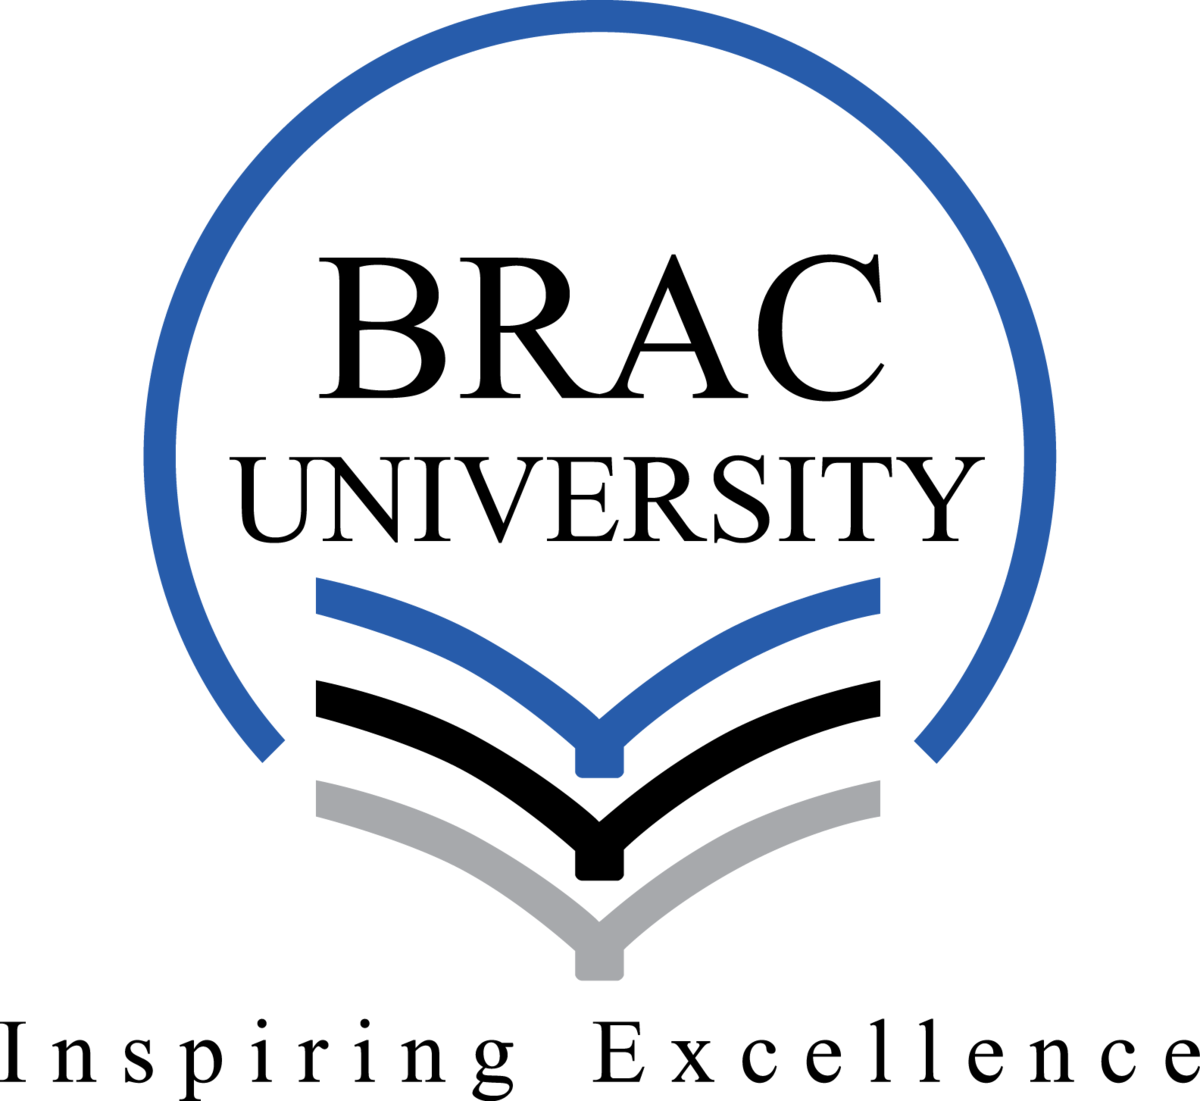
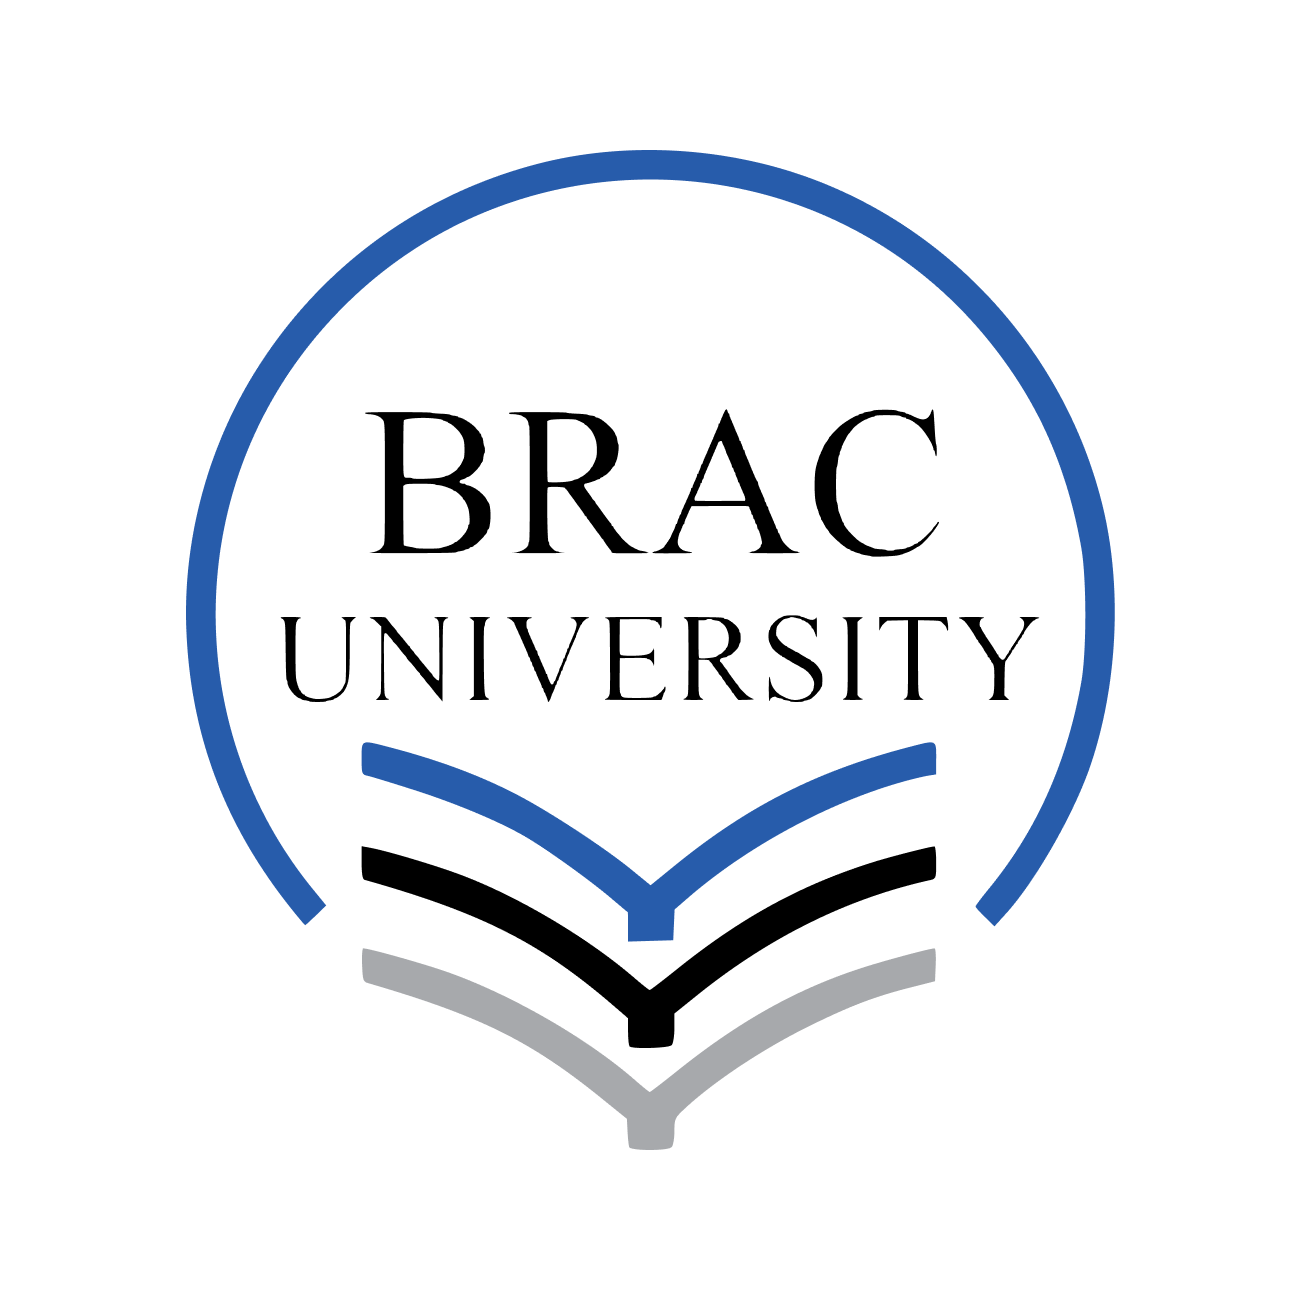
Complete basic experience section

diff --git a/src/assets/icons/Logo.svelte b/src/assets/icons/Logo.svelte
@@ -5,6 +5,10 @@
 	export let containerClasses: string = 'stroke-white !fill-none';
 	export let outlineShapeClasses: string = 'fill-none stroke-white';
 	export let solidShapeClasses: string = 'stroke-white fill-white';
+	export let outlineShapeLeftClasses: string = '';
+	export let outlineShapeRightClasses: string = '';
+	export let solidShapeLeftClasses: string = '';
+	export let solidShapeRightClasses: string = '';
 </script>
 
 <svg
@@ -14,86 +18,6 @@
 	viewBox="0 0 520 520"
 	class="transition-all duration-300 ease-linear {svgBoxClasses}"
 >
-	<!-- <rect
-		x="38.1666"
-		y="12.7008"
-		width="38.7661"
-		height="2"
-		rx="1"
-		transform="rotate(60 38.1666 12.7008)"
-		class="transition-all duration-300 ease-linear {outlineShapeClasses}"
-	/>
-	<rect
-		x="39.1646"
-		y="13.6994"
-		width="38.8577"
-		height="2"
-		rx="1"
-		transform="rotate(120 39.1646 13.6994)"
-		class="transition-all duration-300 ease-linear {outlineShapeClasses}"
-	/>
-	<rect
-		x="37.5126"
-		y="47.113"
-		width="26.7185"
-		height="2"
-		rx="1"
-		transform="rotate(-120 37.5126 47.113)"
-		class="transition-all duration-300 ease-linear {outlineShapeClasses}"
-	/>
-	<rect
-		x="62.9112"
-		y="1.68448"
-		width="51.4972"
-		height="2"
-		rx="1"
-		transform="rotate(60 62.9112 1.68448)"
-		class="transition-all duration-300 ease-linear stroke-2 {solidShapeClasses}"
-	/>
-	<rect
-		x="51.1446"
-		y="24.7923"
-		width="25.7895"
-		height="2"
-		rx="1"
-		transform="rotate(120 51.1446 24.7923)"
-		class="transition-all duration-300 ease-linear {outlineShapeClasses}"
-	/>
-	<rect
-		x="63.9093"
-		y="2.68301"
-		width="26.0111"
-		height="2"
-		rx="1"
-		transform="rotate(120 63.9093 2.68301)"
-		class="transition-all duration-300 ease-linear stroke-2 {solidShapeClasses}"
-	/>
-	<rect
-		x="38.1666"
-		y="1.70083"
-		width="51.4972"
-		height="2"
-		rx="1"
-		transform="rotate(60 38.1666 1.70083)"
-		class="transition-all duration-300 ease-linear stroke-2 {solidShapeClasses}"
-	/>
-	<rect
-		x="39.1646"
-		y="2.69937"
-		width="51.4987"
-		height="2"
-		rx="1"
-		transform="rotate(120 39.1646 2.69937)"
-		class="transition-all duration-300 ease-linear stroke-2 {solidShapeClasses}"
-	/> -->
-
-	<rect
-		width="115.822"
-		height="499.991"
-		rx="57.9112"
-		transform="matrix(0.88334 0.468733 -0.453146 0.891436 407.689 10)"
-		class="transition-all duration-300 ease-linear stroke-2 {solidShapeClasses}"
-	/>
 	<rect
 		x="388.003"
 		y="42.5239"
@@ -101,7 +25,7 @@
 		height="446.154"
 		rx="45.1432"
 		stroke-width="25"
-		class="transition-all duration-300 ease-linear {outlineShapeClasses}"
+		class="transition-all duration-300 ease-linear {outlineShapeClasses} {outlineShapeRightClasses}"
 	/>
 	<rect
 		x="16.7064"
@@ -111,7 +35,7 @@
 		rx="45.4113"
 		transform="matrix(0.883305 -0.468799 0.45321 0.891403 9.55545 74.8822)"
 		stroke-width="25"
-		class="transition-all duration-300 ease-linear {outlineShapeClasses}"
+		class="transition-all duration-300 ease-linear {outlineShapeClasses} {outlineShapeLeftClasses}"
 	/>
 	<rect
 		x="29.6436"
@@ -119,7 +43,15 @@
 		width="115.286"
 		height="471.154"
 		rx="57.6432"
-		class="transition-all duration-300 ease-linear stroke-2 {solidShapeClasses}"
+		class="transition-all duration-300 ease-linear stroke-2 {solidShapeClasses} {solidShapeLeftClasses}"
+	/>
+
+	<rect
+		width="115.822"
+		height="499.991"
+		rx="57.9112"
+		transform="matrix(0.88334 0.468733 -0.453146 0.891436 407.689 10)"
+		class="transition-all duration-300 ease-linear stroke-2 {solidShapeClasses} {solidShapeRightClasses}"
 	/>
 
 	{#if containerShape !== 'none'}

diff --git a/src/components/Sections/Experiences/Experiences.svelte b/src/components/Sections/Experiences/Experiences.svelte
@@ -1,24 +1,93 @@
 <script lang="ts">
-	import type { SocialItemType } from '../../../types';
 	import viewport from '../../../actions/useViewportAction';
-	import Logo from '../../../assets/icons/Logo.svelte';
-	import SocialsBlock from '../../SocialsBlock/SocialsBlock.svelte';
 	import Section from '../Section.svelte';
 	import { currentContentStore } from '../../../store';
+	import gymrev from '../../../assets/img/gym-revenue.png';
+	import bracu from '../../../assets/img/bracu.png';
+	import eveneer from '../../../assets/img/eveneer.png';
+	import techynaf from '../../../assets/img/techynaf-technologies-ltd.png';
+	import type { ExperienceType } from '../../../types';
+	import Experience from './Experience.svelte';
 
 	const contentKey: string = 'experience';
 	let setCurrentContentKey: () => void = () => {
 		currentContentStore.set(contentKey);
 	};
+
+	let expereinces: ExperienceType[] = [
+		{
+			company: 'Gym Revenue',
+			position: 'Full stack dev',
+			start: {
+				month: 'Nov',
+				year: '2022'
+			},
+			company_info: '',
+			logo: gymrev,
+			work_description: '',
+			works: []
+		},
+		{
+			company: 'Brac University',
+			position: 'Lecturer & Software Dev',
+			start: {
+				month: 'Jan',
+				year: '2020'
+			},
+			end: {
+				month: 'May',
+				year: '2023'
+			},
+			company_info: '',
+			logo: bracu,
+			work_description: '',
+			works: []
+		},
+		{
+			company: 'Eveneer',
+			position: 'Tech Wizard',
+			start: {
+				month: 'Dec',
+				year: '2018'
+			},
+			company_info: '',
+			logo: eveneer,
+			work_description: '',
+			works: []
+		},
+		{
+			company: 'Techynaf',
+			position: 'Backend Developer',
+			start: {
+				month: 'Dec',
+				year: '2016'
+			},
+			end: {
+				month: 'Jul',
+				year: '2019'
+			},
+			company_info: '',
+			logo: techynaf,
+			work_description: '',
+			works: []
+		}
+	];
 </script>
 
 <Section {contentKey}>
-	<div class="flex flex-col md:flex-row gap-5 md:gap-5" use:viewport on:enterViewport={setCurrentContentKey}>
-		<div>
-            something
-        </div>
-        <div class="flex flex-col gap-5">
-
-        </div>
+	<div
+		class="flex flex-col md:flex-row gap-10 md:gap-16 justify-between"
+		use:viewport
+		on:enterViewport={setCurrentContentKey}
+	>
+		<div class="w-full md:w-[40%] my-auto text-[0.8rem] text-justify">
+			I started my dev career in at the end of 2016 during as a college student and instantly fell
+			in love with development. Since then, I have developed several software (solo and in a team).
+		</div>
+		<div class="flex flex-col gap-12 w-full md:w-[60%] p-5 pl-0">
+			{#each expereinces as expereince}
+				<Experience {expereince} />
+			{/each}
+		</div>
 	</div>
 </Section>

diff --git a/src/routes/+page.svelte b/src/routes/+page.svelte
@@ -1,7 +1,6 @@
 <script lang="ts">
 	import About from '../components/Sections/About/About.svelte';
 	import Hero from '../components/Sections/Hero.svelte';
-	import type { NavItemType, PersonNameType, SocialItemType } from '../types';
 	import { currentContentStore } from '../store';
 	import Experience from '../components/Sections/Experiences/Experiences.svelte';
 
@@ -21,25 +20,25 @@
 	<div class="fixed top-0 left-0 w-full h-screen -z-10 bg-black">
 		<div
 			style="background: linear-gradient(112.1deg, rgb(32, 38, 57) 11.4%, rgb(63, 76, 119) 70.2%);"
-			class="transition-all duration-300 opacity-50 ease-linear w-full {currentContent === 'hero'
+			class="transition-all duration-700 opacity-50 ease-linear w-full {currentContent === 'hero'
 				? 'h-[100vh]'
 				: 'h-[0vh]'}"
 		/>
 		<div
 			style="background: conic-gradient(#202639 90deg, #164e63 180deg, #0c4a6e 270deg, #202639 360deg)"
-			class="transition-all duration-300 ease-linear w-full {currentContent === 'about'
+			class="transition-all duration-700 ease-linear w-full {currentContent === 'about'
 				? 'h-[100vh]'
 				: 'h-[0vh]'}"
 		/>
 		<div
-			style="background: linear-gradient(109.6deg, rgba(0, 0, 0, 0.93) 11.2%, rgb(63, 61, 61) 78.9%);"
-			class="transition-all duration-300 ease-linear w-full {currentContent === 'experience'
+			style="background: conic-gradient(from -45deg at 70% 40%, rgb(32, 38, 57) 30deg, rgb(63, 76, 119) 220deg, rgb(63, 61, 81) 300deg, rgb(32, 38, 57) 360deg)"
+			class="transition-all duration-700 ease-linear w-full {currentContent === 'experience'
 				? 'h-[100vh]'
 				: 'h-[0vh]'}"
 		/>
 	</div>
 
-	<Hero />
-	<About />
+	<!-- <Hero />
+	<About /> -->
 	<Experience />
 </main>

diff --git a/src/components/Sections/Experiences/Experience.svelte b/src/components/Sections/Experiences/Experience.svelte
@@ -1,0 +1,32 @@
+<script lang="ts">
+	import type { ExperienceType } from '../../../types';
+
+	export let expereince: ExperienceType;
+</script>
+
+<div
+	class="flex flex-col rounded-2xl h-[80px] md:h-[100px] w-full shadow-[5px_5px_20px_5px_rgba(23,23,23,0.5)] hover:shadow-[0px_0px_0px_2px_rgba(52,211,153,1)] relative mr-2.5 px-5 py-5 border-2 border-white/0 transition-all duration-300 ease-linear cursor-pointer hover:bg-emerald-300/20 group"
+>
+	<div
+		style="border-radius: 50% 20% 50% 50%;"
+		class="w-[50px] h-[50px] md:w-[75px] md:h-[75px] flex flex-col justify-center absolute top-[-25px] right-[-25px] md:top-[-25px] md:right-[-25px] shadow-[5px_5px_20px_5px_rgba(23,23,23,0.5)] group-hover:shadow-[0px_0px_0px_2px_rgba(52,211,153,1)] hover:shadow-[0px_0px_0px_2px_rgba(52,211,153,1)] overflow-hidden transition-all duration-300 ease-linear"
+	>
+		<img src={expereince.logo} class="m-auto" alt="bracu logo" />
+	</div>
+	<div class="md:h-[50px] flex flex-col justify-center">
+		<div class="text-[0.8rem] mr-[45px] md:mlr[65px] border-b">
+			{expereince.start.month}, {expereince.start.year} -
+			{#if expereince.end}
+				{expereince.end.month}, {expereince.end.year}
+			{:else}
+				Present
+			{/if}
+		</div>
+	</div>
+	<div class="flex flex-col md:flex-row justify-between">
+		<div class="flex flex-col w-full md:w-[80%]">
+			<h1 class="text-[0.9rem] md:text-[1rem]">Lecturer & Software Dev</h1>
+			<!-- <h3 class="text-[0.8rem]">CSE, Brac University</h3> -->
+		</div>
+	</div>
+</div>

diff --git a/src/components/NavList/NavList.svelte b/src/components/NavList/NavList.svelte
@@ -10,9 +10,11 @@
 </script>
 
 <nav
-	class="flex flex-row justify-center gap-10 absolute bottom-0 left-0 md:left-[calc(50%-250px)] w-full md:w-[500px] rounded-t-full bg-gradient-to-b from-slate-500 h-[50px] py-2"
+	class=" absolute bottom-0 left-0 md:left-[calc(50%-250px)] w-full md:w-[500px] rounded-t-full bg-gradient-to-b from-slate-500 h-[50px] py-2 px-10"
 >
-	{#each items as item}
-		<svelte:component this={item.icon} {...item.props} />
-	{/each}
+	<div class="flex flex-row justify-center gap-10 w-full">
+		{#each items as item}
+			<svelte:component this={item.icon} {...item.props} />
+		{/each}
+	</div>
 </nav>

diff --git a/src/types/index.ts b/src/types/index.ts
@@ -41,3 +41,28 @@ export interface SocialItemType {
 }
 
 export type setActiveContentFunctionType = (a: string) => void;
+
+export interface RangeTimeType {
+	month: string;
+	year: string;
+}
+
+export interface ExperienceProjectType {
+	name: string;
+	description: string;
+	url?: string;
+	type: 'research' | 'software' | 'module' | 'package';
+	source: 'open' | 'closed';
+	company: string;
+}
+
+export interface ExperienceType {
+	company: string;
+	position: string;
+	start: RangeTimeType;
+	end?: RangeTimeType;
+	company_info: string;
+	logo: string;
+	work_description: string;
+	works: ExperienceProjectType[];
+}

diff --git a/src/components/Sections/About/AboutIntro.svelte b/src/components/Sections/About/AboutIntro.svelte
@@ -24,7 +24,7 @@
 		svgBoxClasses="mx-auto fill-none"
 		containerShape="none"
 		solidShapeClasses="stroke-white fill-white"
-		outlineShapeClasses="stroke-white/50"
+		outlineShapeClasses="stroke-white"
 	/>
 	<NameBlock {name} />
 	<div class="flex flex-col gap-2 mt-auto">

diff --git a/src/components/Sections/Hero.svelte b/src/components/Sections/Hero.svelte
@@ -42,7 +42,7 @@
 			svgBoxClasses="mx-auto fill-none"
 			containerShape="none"
 			solidShapeClasses="stroke-white fill-white stroke-2"
-			outlineShapeClasses="stroke-white/50"
+			outlineShapeClasses="stroke-white fill-violet-500"
 		/>
 		<div class="mx-auto">
 			<div
